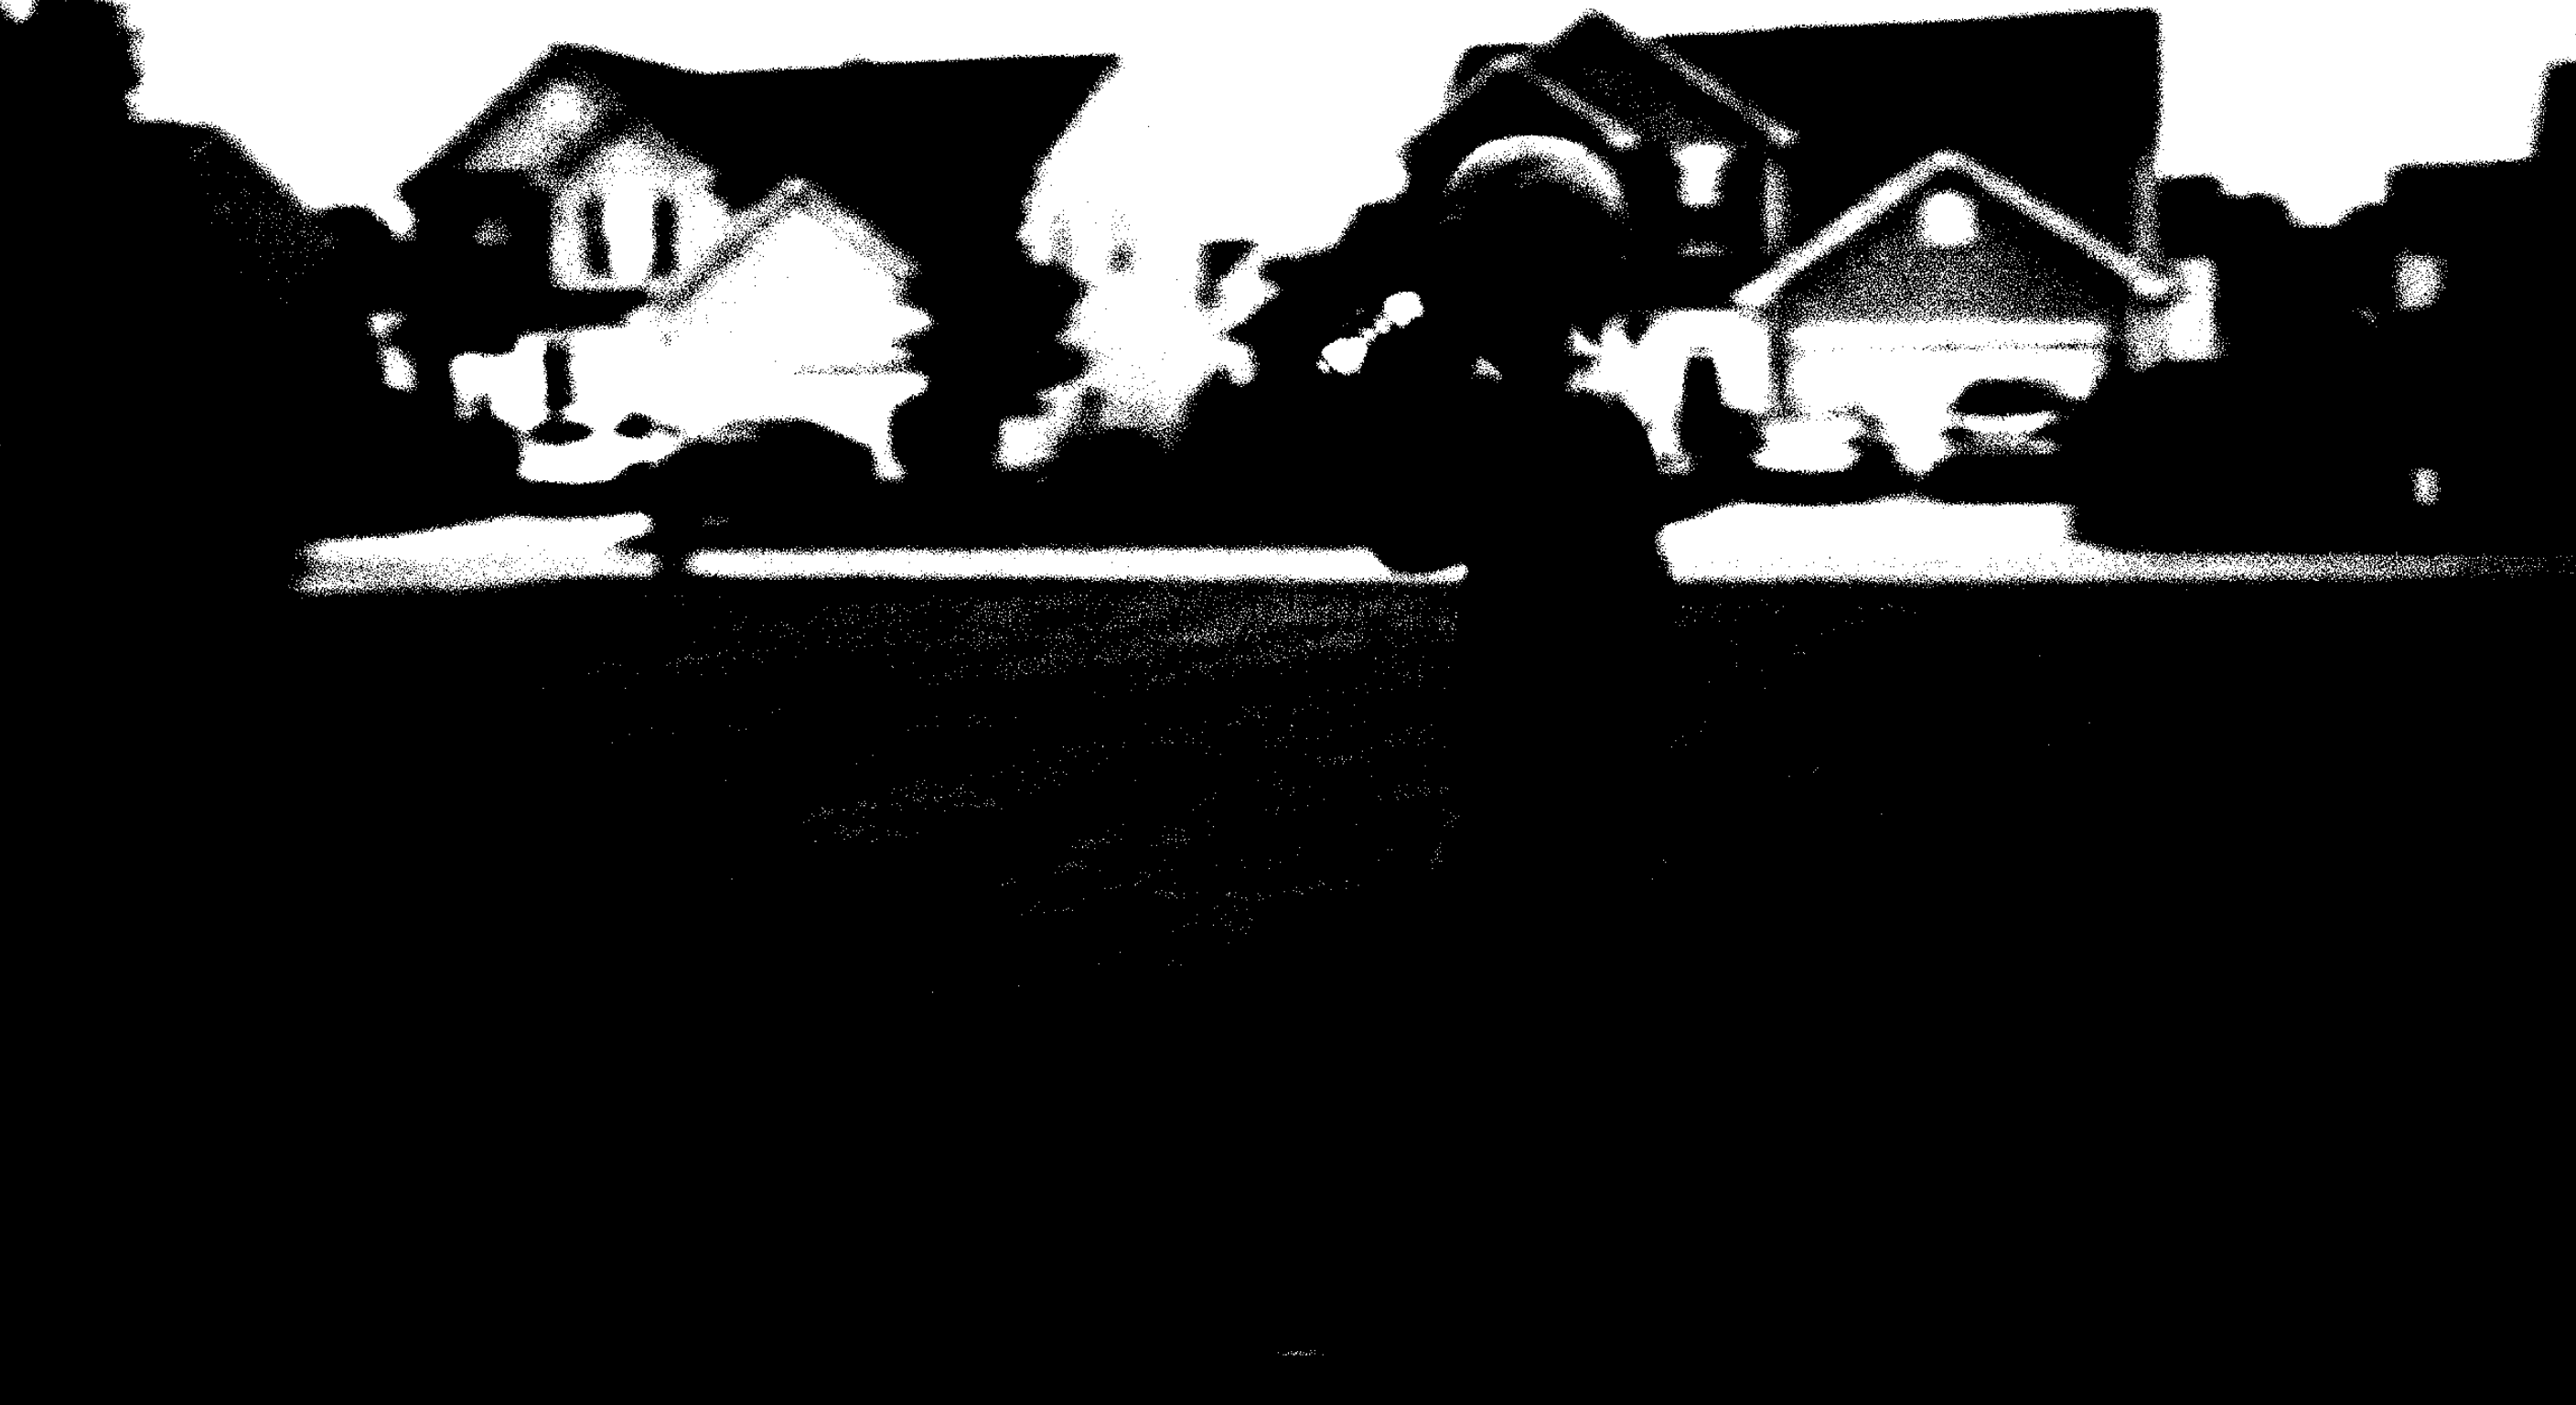
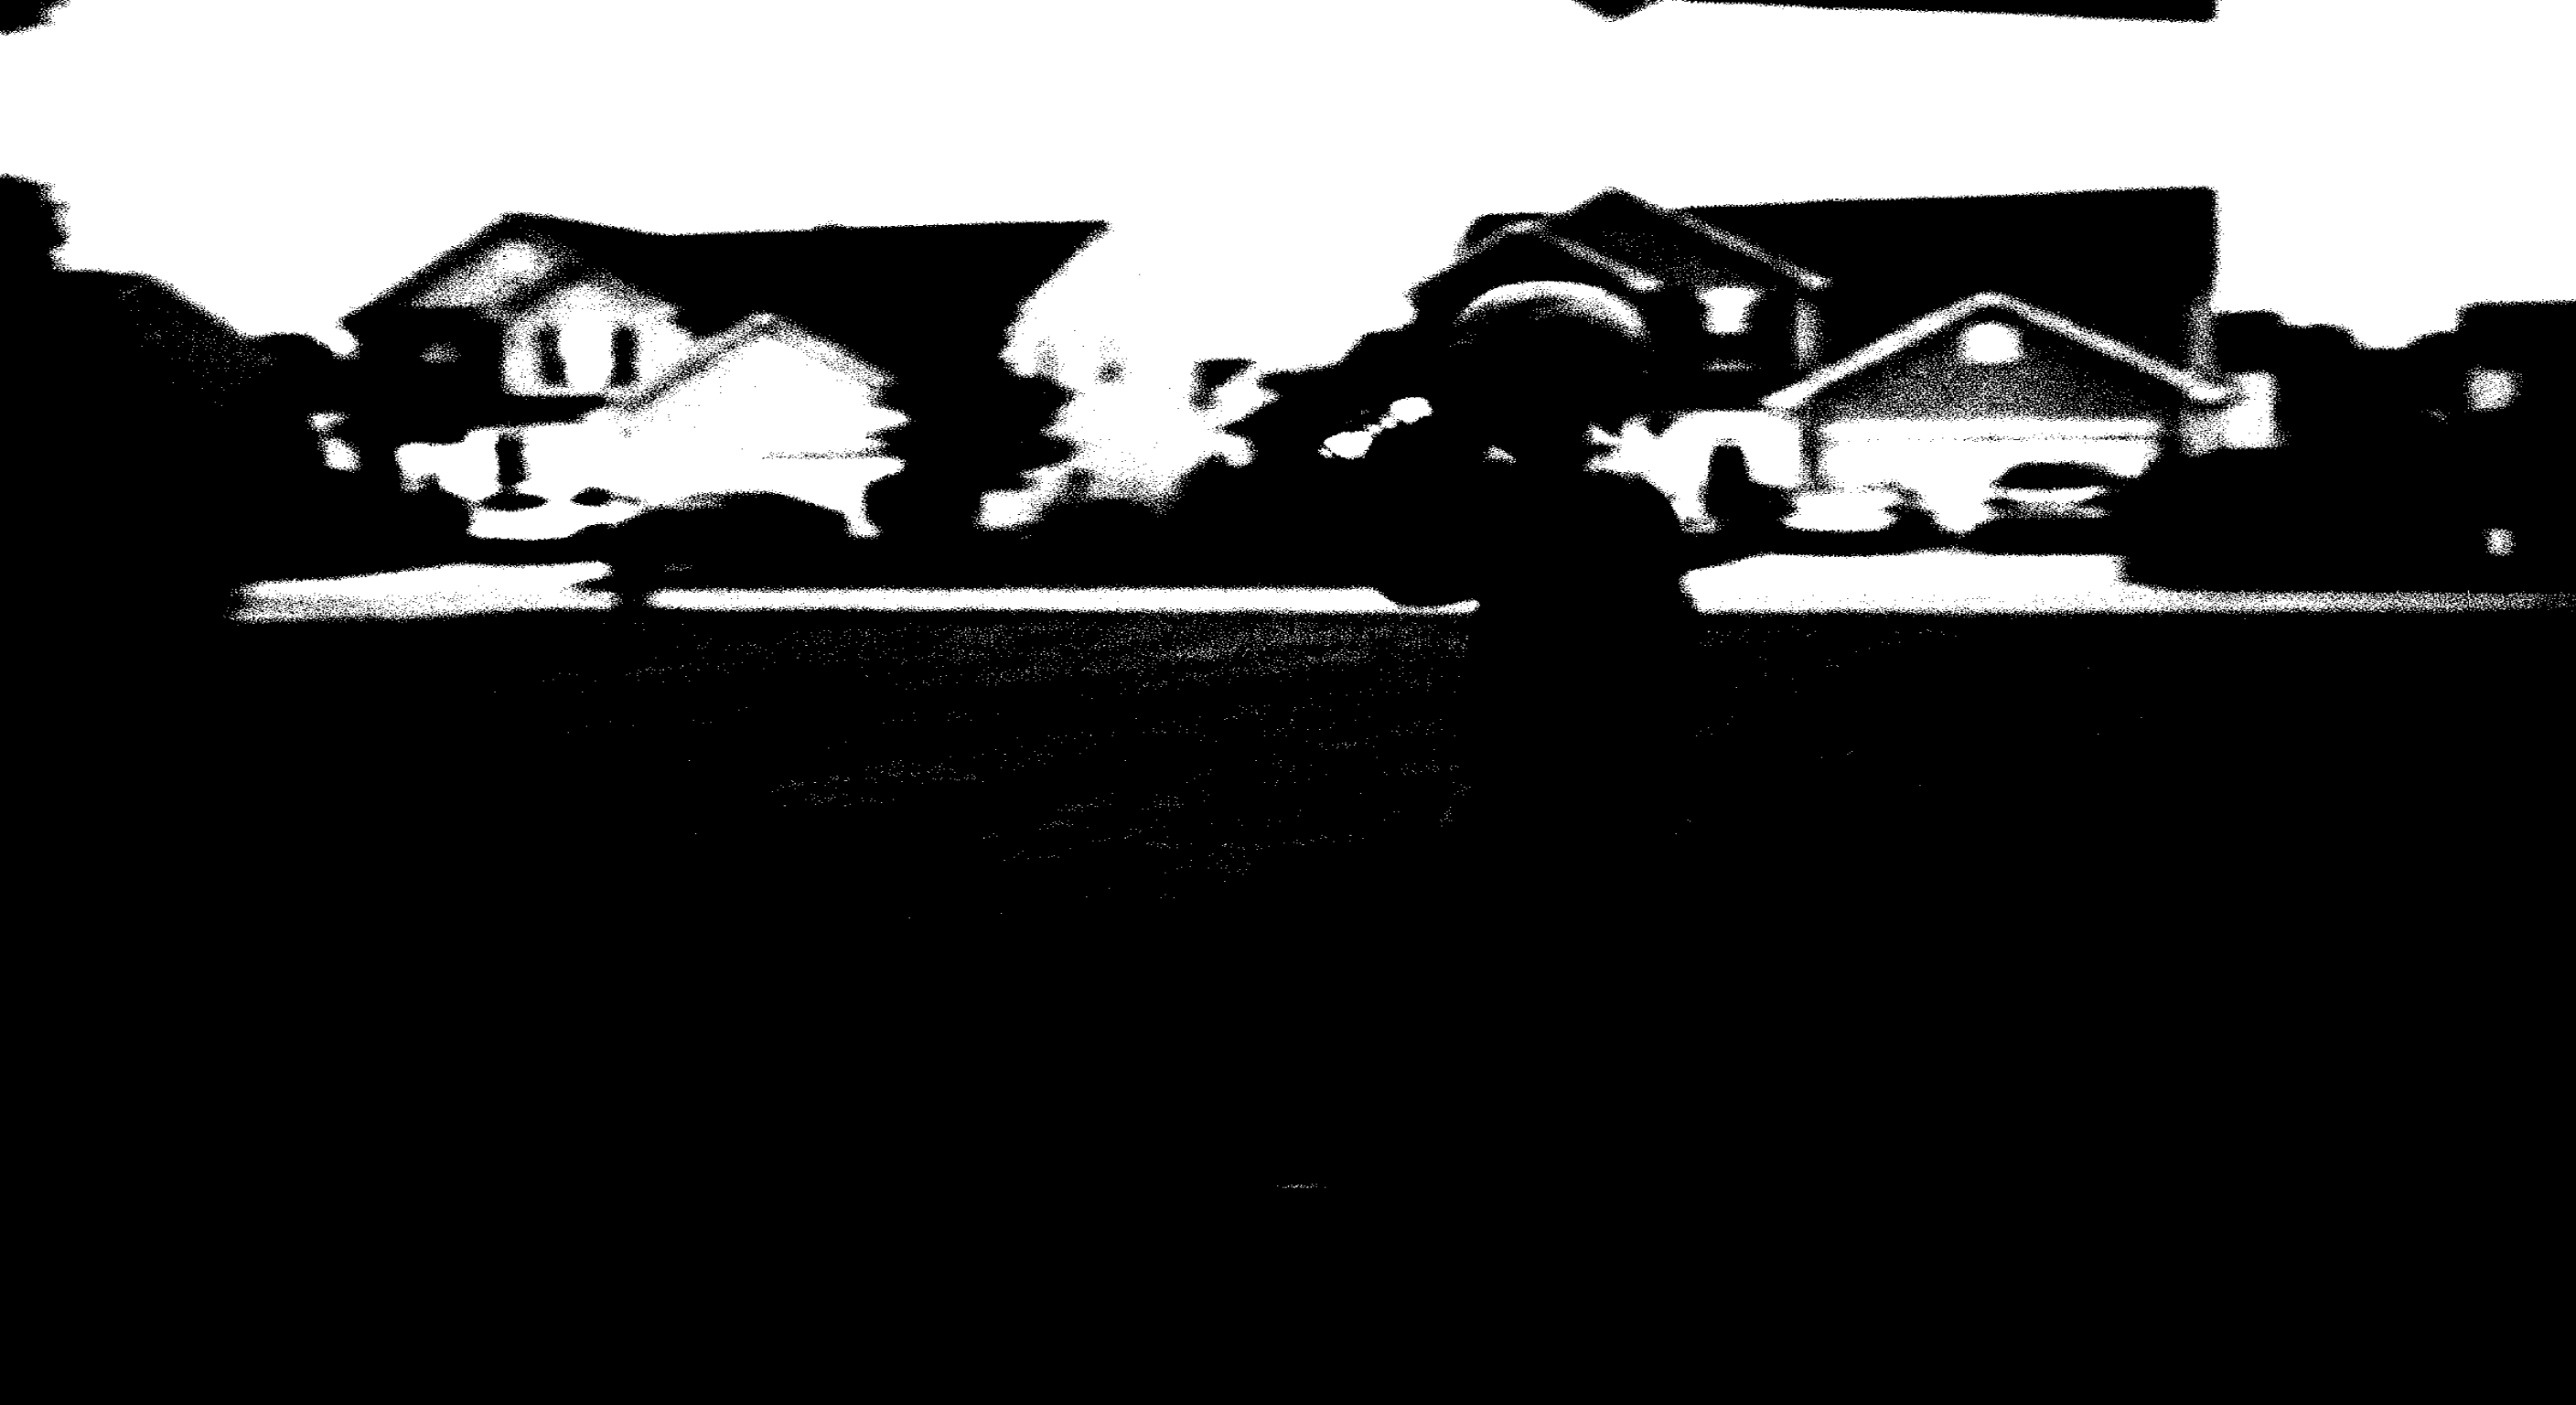
Added Gaussian Blur images. Cleaned up Affine Transformations Directory. Need to implement checks to not regenerate additional images during subsequent runs.

Changed region(s): [[0.0, 0.0, 1.0, 0.4688], [0.5312, 0.2812, 0.5625, 0.3125]]

diff --git a/imageanalysis.py b/imageanalysis.py
@@ -245,6 +245,50 @@ def apply_affine_transformations(image: np.ndarray, base_filename: str, output_d
         transformed_images.append(transformed)
 
 
+def apply_gaussian_blur(image: np.ndarray, sigma: float) -> np.ndarray:
+    """Apply Gaussian blur to an image using the given sigma.
+
+    Inputs:
+        image (np.ndarray): Input image.
+        sigma (float): Standard deviation for the Gaussian kernel.
+
+    Outputs:
+        np.ndarray: Blurred image.
+    """
+    kernel_radius = max(1, int(round(sigma * 3)))
+    kernel_size = kernel_radius * 2 + 1
+    return cv2.GaussianBlur(image, (kernel_size, kernel_size), sigmaX=sigma, sigmaY=sigma, borderType=cv2.BORDER_REFLECT)
+
+
+def blur_images_in_directories(transformation_dir: str, affine_dir: str, output_dir: str, sigma_values: Tuple[float, ...]) -> None:
+    """Apply Gaussian blur to every image in the transformation directories.
+
+    Inputs:
+        transformation_dir (str): Root Image Transformations directory.
+        affine_dir (str): Affine Transformations subdirectory.
+        output_dir (str): Directory where blurred images will be saved.
+        sigma_values (Tuple[float, ...]): Sigma values to use for blur.
+
+    Outputs:
+        None: Saves blurred images to disk.
+    """
+    os.makedirs(output_dir, exist_ok=True)
+    image_paths = []
+    for dir_path in (transformation_dir, affine_dir):
+        if not os.path.isdir(dir_path):
+            continue
+        for filename in os.listdir(dir_path):
+            if filename.lower().endswith(".png"):
+                image_paths.append(os.path.join(dir_path, filename))
+
+    for image_path in image_paths:
+        image = load_image(image_path)
+        base_name = os.path.splitext(os.path.basename(image_path))[0]
+        for sigma in sigma_values:
+            blurred = apply_gaussian_blur(image, sigma)
+            save_transformation(blurred, f"{base_name}_gaussian_sigma_{sigma:.1f}", output_dir)
+
+
 def compute_mode(channel: np.ndarray) -> Tuple[int, int]:
     """Compute the mode value and count for a channel.
 
@@ -420,3 +464,8 @@ if __name__ == "__main__":
         apply_affine_transformations(image, base_name, affine_dir)
 
     print(f"Saved affine images to: {affine_dir}")
+
+    gaussian_dir = os.path.join(transformation_dir, "Gaussian Blur")
+    sigma_values = (0.5, 1.0, 1.5, 2.0, 2.5, 3.0, 3.5)
+    blur_images_in_directories(transformation_dir, affine_dir, gaussian_dir, sigma_values)
+    print(f"Saved Gaussian blurred images to: {gaussian_dir}")

diff --git a/README.md b/README.md
@@ -43,6 +43,8 @@ pip install scipy
   - `generate_random_affine_matrix(transform_type, image_shape)` — build a random affine matrix for a chosen type
   - `apply_affine_transform(image, matrix)` — apply an affine matrix with `cv2.warpAffine`
   - `apply_affine_transformations(image, base_filename, output_dir)` — apply two distinct affine transforms (always different types) and save the results; retries on collisions and validates that no two affine output images are identical
+  - `apply_gaussian_blur(image, sigma)` — apply Gaussian blur to an image using a sigma value
+  - `blur_images_in_directories(transformation_dir, affine_dir, output_dir, sigma_values)` — blur every image in `Image Transformations` and `Affine Transformations`, saving results into `Image Transformations/Gaussian Blur`
   - `save_transformation(image, filename_template, transformation_dir)` — save transformed images using a consistent naming template
   - `analyze_image_channels(image_path)` — orchestrator returning a dict of per-channel stats
   - `format_channel_report(channel_stats)` — returns a formatted text report
@@ -50,6 +52,7 @@ pip install scipy
   - Output directories created:
     - `Image Transformations`
     - `Image Transformations/Affine Transformations`
+    - `Image Transformations/Gaussian Blur`
 
 - [AI_Log.md](AI_Log.md) — project interaction log (prompts, responses, and design/code changes).
 
@@ -71,6 +74,10 @@ python imageanalysis.py -i path/to/image.png
 
 **Output**
 - The script prints a multi-line channel statistics report to stdout. The report contains per-channel keys such as `min`, `max`, `mean`, `median`, `range`, `variance`, `std`, `mode`, `mode_count`, and `skew`.
+- Transformed images are saved to `Image Transformations` with descriptive filenames (e.g., `HW1_IMG_CS898BA_grayscale.png`, `HW1_IMG_CS898BA_hsv.png`).
+- Affine-transformed images are saved to `Image Transformations/Affine Transformations` with naming: `{source_name}_affine_{transform_type}.png` (e.g., `HW1_IMG_CS898BA_grayscale_affine_rotation.png`).
+- Gaussian-blurred images are saved to `Image Transformations/Gaussian Blur` with naming: `{source_name}_gaussian_sigma_{sigma}.png` where sigma ranges from 0.5 to 3.5 in 0.5 increments (e.g., `HW1_IMG_CS898BA_gaussian_sigma_1.5.png`). Every image from both the `Image Transformations` and `Affine Transformations` directories is blurred at each sigma value.
+    - The differences in sigma values cause the image's pixels to be progressively more blurry. Higher sigma value relates to a further blur distance from each pixel, which causes the image to become more smooth, but to lose detail.
 
 **Results**
 The following output was produced by running `imageanalysis.py` with the default image `HW1_IMG_CS898BA.png`: